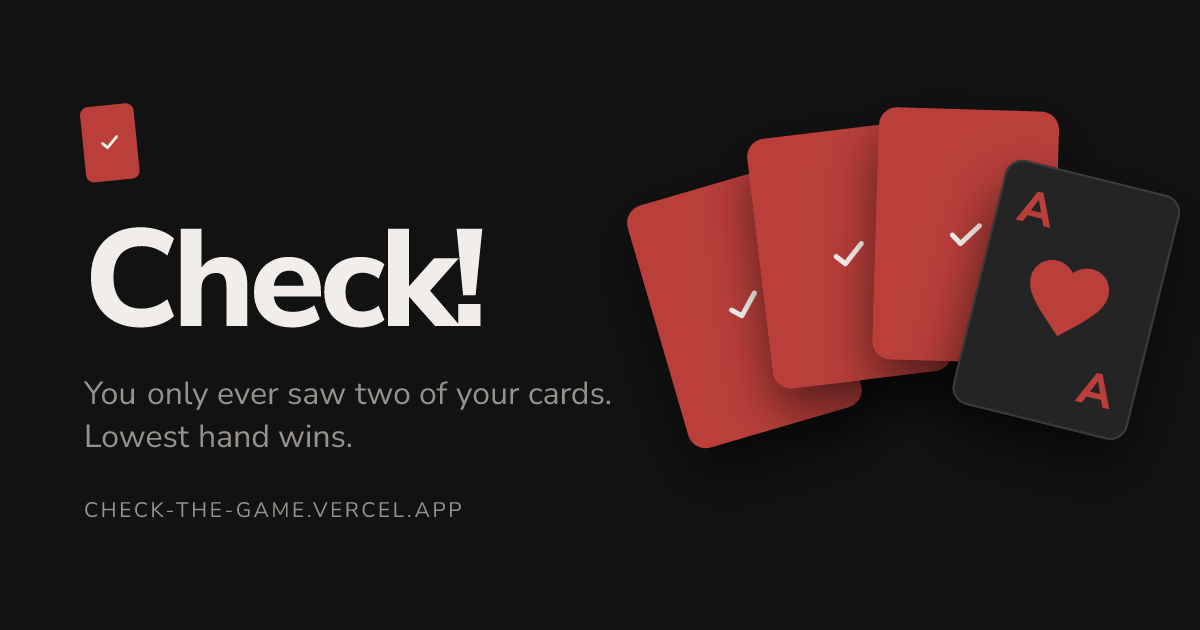
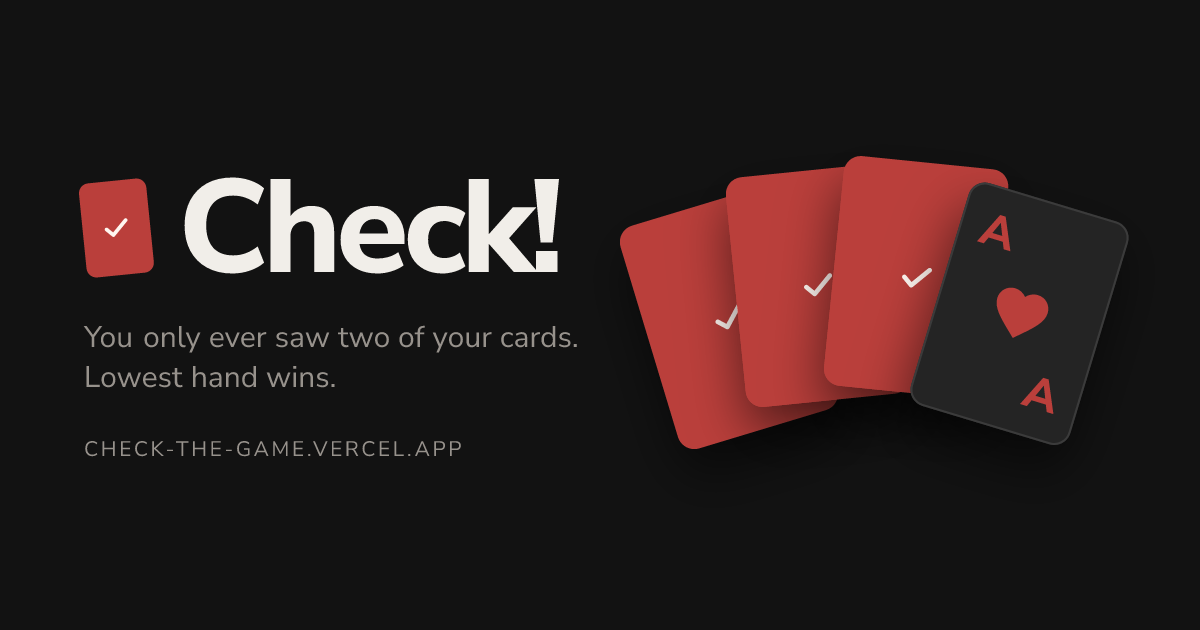
feat: set the mark beside the wordmark and fix the card fan's proportions
The two columns totalled 1248 inside a 1200 frame, so the layout was
being squeezed. Widths now come to 1188. The fan container is sized to
what it holds rather than an arbitrary box, so centring works against
the cards instead of against empty space, and the pip and rank scale
from the card width instead of holding sizes chosen when cards were
larger.

diff --git a/client/app/opengraph-image.tsx b/client/app/opengraph-image.tsx
@@ -60,6 +60,8 @@ function Card({
   faceUp?: boolean;
 }) {
   const height = Math.round((width * 7) / 5);
+  const rankSize = Math.round(width * 0.27);
+  const pipSize = Math.round(width * 0.38);
   return (
     <div
       style={{
@@ -92,7 +94,7 @@ function Card({
           <div
             style={{
               display: "flex",
-              fontSize: 46,
+              fontSize: rankSize,
               fontWeight: 800,
               color: ACCENT,
               lineHeight: 1,
@@ -106,13 +108,13 @@ function Card({
               justifyContent: "center",
             }}
           >
-            <Heart size={96} color={ACCENT} />
+            <Heart size={pipSize} color={ACCENT} />
           </div>
           <div
             style={{
               display: "flex",
               justifyContent: "flex-end",
-              fontSize: 46,
+              fontSize: rankSize,
               fontWeight: 800,
               color: ACCENT,
               lineHeight: 1,
@@ -155,50 +157,63 @@ export default async function OpengraphImage() {
             display: "flex",
             flexDirection: "column",
             justifyContent: "center",
-            width: 600,
+            width: 560,
           }}
         >
-          {/* The brand mark, exactly as the app draws it: an accent card back
-              tilted like one just placed on the table. */}
+          {/* Mark and wordmark on one line, the way the app's header sets it:
+              an accent card back tilted like one just placed on the table,
+              sized to the cap height of the type beside it. */}
           <div
             style={{
               display: "flex",
-              width: 54,
-              height: 76,
               alignItems: "center",
-              justifyContent: "center",
-              borderRadius: 8,
-              background: ACCENT,
-              transform: "rotate(-6deg)",
-              marginBottom: 34,
+              gap: 26,
             }}
           >
-            <CheckMark size={22} color={ACCENT_INK} />
+            <div
+              style={{
+                display: "flex",
+                width: 68,
+                height: 95,
+                alignItems: "center",
+                justifyContent: "center",
+                borderRadius: 10,
+                background: ACCENT,
+                transform: "rotate(-6deg)",
+              }}
+            >
+              <CheckMark size={30} color={ACCENT_INK} />
+            </div>
+            <div
+              style={{
+                display: "flex",
+                fontSize: 132,
+                fontWeight: 800,
+                letterSpacing: "-0.04em",
+                lineHeight: 0.95,
+              }}
+            >
+              Check!
+            </div>
           </div>
 
+          {/* Set as two explicit lines rather than left to wrap. The break
+              belongs at the sentence, and a column this width would otherwise
+              break it after "your". */}
           <div
             style={{
               display: "flex",
-              fontSize: 138,
-              fontWeight: 800,
-              letterSpacing: "-0.04em",
-              lineHeight: 0.95,
-            }}
-          >
-            Check!
-          </div>
-
-          <div
-            style={{
-              display: "flex",
+              flexDirection: "column",
               marginTop: 26,
-              fontSize: 32,
-              lineHeight: 1.35,
+              fontSize: 30,
+              lineHeight: 1.32,
               color: INK_MUTED,
-              maxWidth: 570,
             }}
           >
-            You only ever saw two of your cards. Lowest hand wins.
+            <div style={{ display: "flex" }}>
+              You only ever saw two of your cards.
+            </div>
+            <div style={{ display: "flex" }}>Lowest hand wins.</div>
           </div>
 
           <div
@@ -215,18 +230,25 @@ export default async function OpengraphImage() {
           </div>
         </div>
 
+        {/* A held fan: evenly spaced, rotations symmetric about the middle,
+            outer cards dipping so the arc peaks in the centre. The container
+            is sized to what it holds, a 235 tall card plus 44 of dip and the
+            swing the rotation adds, so the parent's align-items centre
+            centres the cards against the type rather than against empty
+            space. Widths are set so the two columns and the padding total
+            less than 1200, or the frame squeezes them. */}
         <div
           style={{
             position: "relative",
             display: "flex",
-            width: 430,
-            height: 470,
+            width: 460,
+            height: 320,
           }}
         >
-          <Card left={-30} top={104} rotate={-16} width={180} />
-          <Card left={78} top={48} rotate={-7} width={180} />
-          <Card left={190} top={34} rotate={2} width={180} />
-          <Card left={292} top={96} rotate={14} width={180} faceUp />
+          <Card left={0} top={44} rotate={-17} width={166} />
+          <Card left={96} top={12} rotate={-6} width={166} />
+          <Card left={192} top={12} rotate={6} width={166} />
+          <Card left={288} top={44} rotate={17} width={166} faceUp />
         </div>
       </div>
     ),
